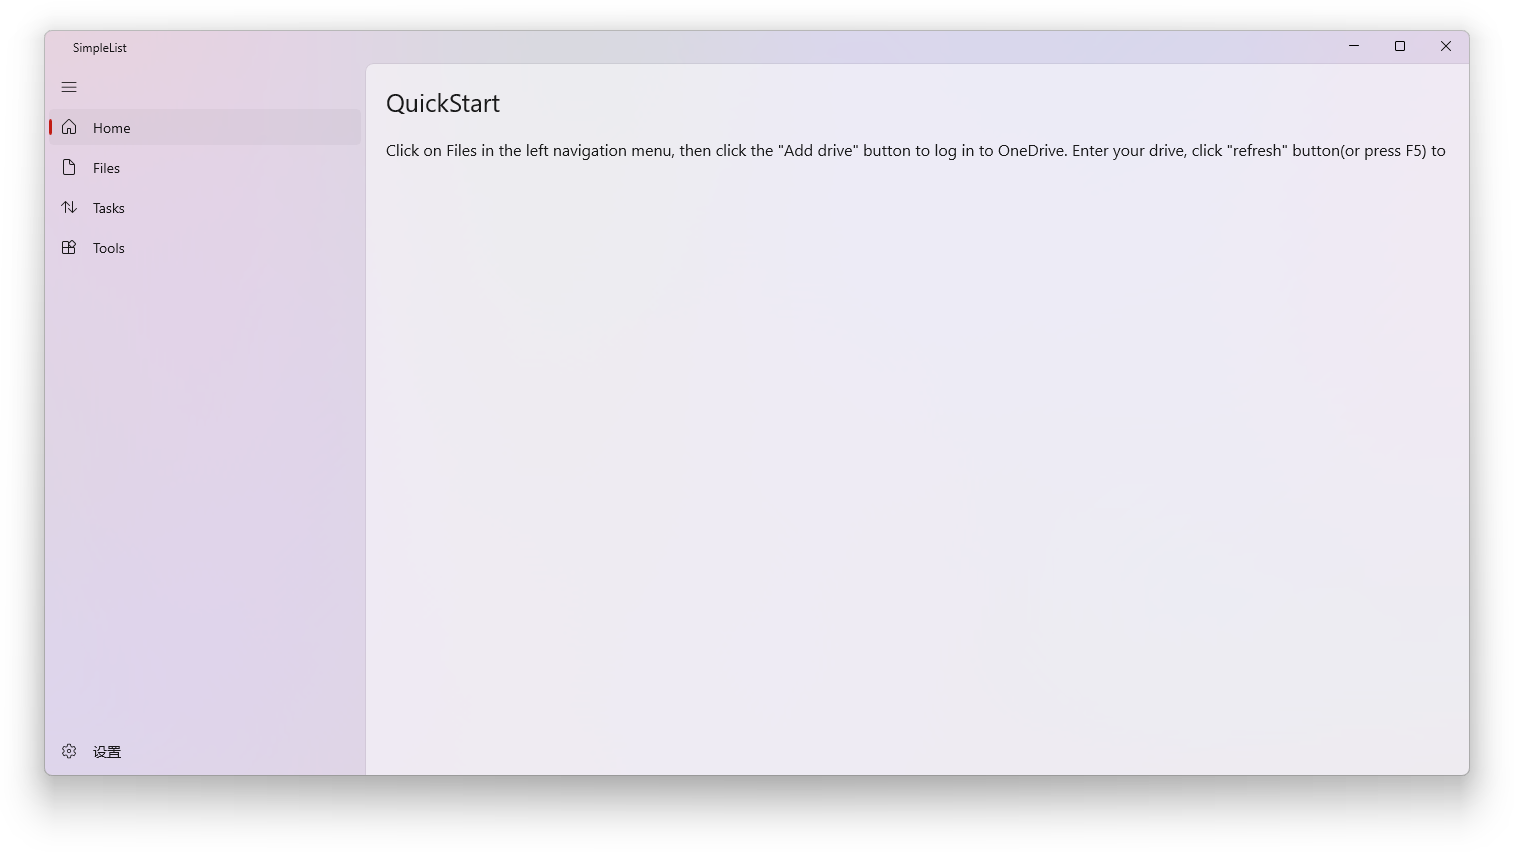
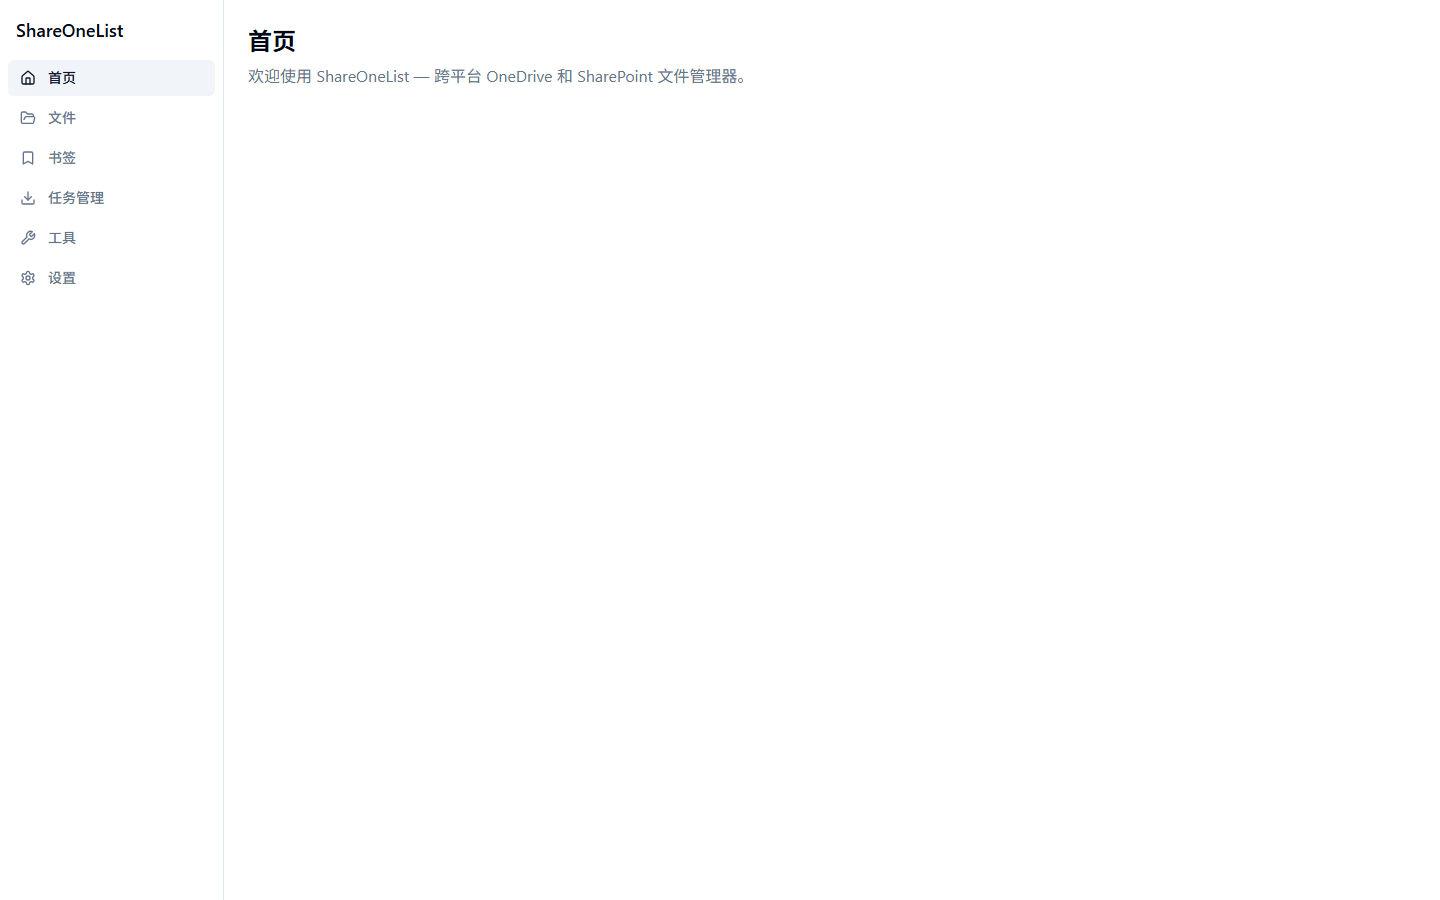
docs: refresh project intro and screenshots for Tauri 2.0

Changed region(s): [[0.0, 0.0305, 1.0, 0.9765]]

diff --git a/FEATURE_TODO.md b/FEATURE_TODO.md
@@ -1,95 +1,59 @@
 # ShareOneList 功能路线 TODO
 
-> 2026-08-14 讨论整理。仅规划，不代表已进入开发。
+> 2026-08-14 讨论整理，同日按讨论结论调整。仅规划，不代表已进入开发。
 
 ## 0. 统一决策点
 
-- [ ] 确定移动版目标平台优先级（Android / iOS / 仅 Web 响应式）
-- [ ] 确定 AI 模型提供商策略（国际模型 / 国内模型 / 可配置）
-- [ ] 确定挂载功能目标平台优先级（macOS Finder 先行 / Windows 先行）
+- [ ] 移动版列为远期目标，桌面端核心功能稳定后再启动
+- [ ] AI 聊天不做 RAG / 向量索引，采用 Graph 搜索 + 按需读取内容问答
+- [ ] Windows 和 macOS 挂载统一采用 WebDAV 中转方案，不做 WinFsp / FUSE
 - [ ] 确定“比较”功能是只读工具还是含同步执行
-- [ ] 评估四个功能之间的依赖关系（AI 索引缓存、比较缓存、挂载缓存可共用）
+- [ ] 评估功能之间的依赖关系（缓存、后台任务可共用）
 
-## 1. 移动版发布（基于 Tauri 2 重写版）
-
-### 技术前提
-
-- [ ] 明确 WinUI 3 分支不做移动迁移，移动版只基于 `tauri-app`
-- [ ] 跑通 Tauri 2 iOS / Android 脚手架（生成 `gen/android`、`gen/apple`）
-- [ ] 为移动端调整 `tauri.conf.json`（identifier、bundle、移动端配置）
-- [ ] 新增移动端 CI workflow（Android SDK/NDK、Xcode、签名）
-
-### 认证与安全
-
-- [ ] 将 OAuth localhost 回调改为 deep link / App 内 WebView 认证
-- [ ] 在 Global 和世纪互联 Azure 门户分别注册移动端重定向 URI
-- [ ] 验证并启用移动端安全存储（iOS Keychain / Android Keystore），或替换 keyring 插件
-
-### 文件与能力适配
-
-- [ ] 下载改为沙盒目录 + 系统分享 / 保存到相册
-- [ ] 上传改为文档选择器 / 分享面板
-- [ ] 裁剪或隐藏桌面专属功能（Aria2/IDM/Motrix、关机下载、GitHub 更新器）
-- [ ] 更新流程改为应用商店渠道
-
-### 前端适配
-
-- [ ] 响应式布局（侧边栏 → 底部导航）
-- [ ] 触摸目标、单指操作、小屏文件列表适配
-- [ ] 移动端端到端验证（登录、浏览、下载、预览）
-
-### 备选路线
-
-- [ ] 评估响应式 Web / PWA 作为快速验证方案
-
-## 2. 首页 AI 聊天窗口 + 云端知识库（本地 RAG）
+## 1. 首页 AI 聊天窗口 + 云端知识库（无 RAG）
 
 ### 产品边界
 
 - [ ] 明确“搜文件”与“基于内容问答”两条能力的优先级
 - [ ] 定义知识范围（当前账号 / 指定库 / 所有账号）
+- [ ] 明确不做本地向量索引、embedding、向量数据库
 
-### Phase 1：轻量问答
+### 能力设计
 
+- [ ] 首页新增聊天窗口（欢迎区 + ChatPanel 或右侧抽屉）
+- [ ] 使用 Graph 搜索定位相关文件 / 片段
 - [ ] 支持选择单个文件 / 文件夹作为问答上下文
-- [ ] 抽取文本内容（文本、Markdown 优先）
-- [ ] Graph 搜索作为兜底（定位文件、片段）
-
-### Phase 2：本地 RAG
-
-- [ ] 实现 `KnowledgeIndexer`：Graph delta 增量索引 + 索引游标持久化
-- [ ] 文档解析：Word / Excel / PPT / PDF / Markdown
-- [ ] 分块 + embedding + SQLite 向量索引
-- [ ] 实现 `ChatEngine`：检索 Top-K、组装 prompt、流式输出
+- [ ] 抽取文本内容（文本、Markdown 优先；Office / PDF 视能力逐步支持）
+- [ ] 将检索结果与上下文发送给模型，流式输出
 - [ ] 答案带引用卡片，点击跳转到文件浏览 / 预览
-- [ ] 索引进度通过 Tauri 事件推送到前端
+- [ ] 对话历史本地持久化（可选）
 
 ### 权限与合规
 
-- [ ] 索引按账号 / 云环境隔离
-- [ ] 登出或移除账号时清理对应索引
-- [ ] 显示“数据将发送给 XX 模型”的提示与开关
+- [ ] 只查询当前登录账号可见内容，跨账号隔离
+- [ ] 登出时清理会话上下文
+- [ ] 显示“数据将发送给 XX 模型”的提示
 - [ ] 支持排除指定库 / 目录
 
 ### 模型抽象
 
-- [ ] 定义 Provider 接口（Embedding 与 Chat 分开）
-- [ ] 支持 OpenAI-compatible 国际模型与国内模型切换
+- [ ] 定义 Chat Provider 接口
+- [ ] 支持国际模型与国内模型切换
 - [ ] 设置页新增 API Key 配置
 
-### 未来演进
+### 后续
 
-- [ ] 设计索引 / 检索可替换为服务端实现（兼容移动端）
+- [ ] 若未来需要更高答案质量，再评估服务端 / 本地索引（暂不建 RAG）
 
-## 3. 挂载到本地磁盘（WebDAV 中转方案）
+## 2. 挂载到本地磁盘（Windows + macOS 统一 WebDAV）
 
 ### PoC 验证
 
 - [ ] Rust 后端实现 loopback WebDAV 服务
 - [ ] 仅实现 `PROPFIND` + `GET` 只读挂载
-- [ ] 在真实 macOS Finder 挂载验证：中文名、`#`/`%`、大文件、连接稳定性
-- [ ] 验证 Windows 资源管理器挂载体验
-- [ ] 根据 PoC 结果决定是否继续 / 是否切换 WinFsp
+- [ ] macOS Finder 挂载验证：中文名、`#`/`%`、大文件、连接稳定性
+- [ ] Windows 资源管理器挂载验证：WebClient 服务、认证、文件大小限制
+- [ ] 根据 PoC 结果决定是否继续 / 是否调整实现
 
 ### 核心设计
 
@@ -102,10 +66,10 @@
 ### 后续阶段
 
 - [ ] 写操作与冲突处理
-- [ ] Windows 端评估 WinFsp 路线
 - [ ] 挂载设置页（端口、口令、只读开关、自动挂载）
+- [ ] 多客户端复用（Finder、资源管理器、rclone 等）
 
-## 4. 文件夹比较 + 同步（Beyond Compare 风格）
+## 3. 文件夹比较 + 同步（Beyond Compare 风格）
 
 ### 会话模型
 
@@ -139,9 +103,32 @@
 - [ ] 定时比较 / 增量刷新
 - [ ] 跨账号复制优先使用 Graph 服务端 copy，跨云回退流式中转
 
+## 4. 移动版发布（远期，最后启动）
+
+### 前提
+
+- [ ] 桌面端核心功能（AI 聊天、WebDAV 挂载、文件夹比较）稳定后再启动
+- [ ] 明确 WinUI 3 分支不做移动迁移，移动版只基于 `tauri-app`
+- [ ] 评估响应式 Web / PWA 作为快速验证方案
+
+### 移动端适配
+
+- [ ] 跑通 Tauri 2 iOS / Android 脚手架（生成 `gen/android`、`gen/apple`）
+- [ ] 调整 `tauri.conf.json` 移动端配置
+- [ ] 新增移动端 CI workflow（Android SDK/NDK、Xcode、签名）
+- [ ] OAuth localhost 回调改为 deep link / App 内 WebView 认证
+- [ ] 注册 Global 和世纪互联移动端重定向 URI
+- [ ] 启用移动端安全存储（iOS Keychain / Android Keystore）
+- [ ] 下载改为沙盒目录 + 系统分享 / 保存到相册
+- [ ] 上传改为文档选择器 / 分享面板
+- [ ] 裁剪或隐藏桌面专属功能（Aria2/IDM/Motrix、关机下载、GitHub 更新器）
+- [ ] 更新流程改为应用商店渠道
+- [ ] 响应式布局（侧边栏 → 底部导航）与触摸适配
+- [ ] 移动端端到端验证（登录、浏览、下载、预览）
+
 ## 5. 通用技术底座（多功能复用）
 
 - [ ] 统一的 Graph 元数据缓存与限流 / 退避策略
 - [ ] 统一的传输 stream 层（下载 / 上传 / 跨账号中转）
-- [ ] 统一的 SQLite 本地库（缓存、比较会话、AI 索引、挂载配置）
+- [ ] 统一的 SQLite 本地库（缓存、比较会话、挂载配置）
 - [ ] 统一的后台任务与进度事件模型

diff --git a/README.md b/README.md
@@ -2,47 +2,33 @@
 
 English | [简体中文](./README_zh_CN.md)
 
-> OneDrive & SharePoint, Global & China — one app for all your clouds.
+> Cross-platform OneDrive & SharePoint file manager for Microsoft 365, built with Tauri 2, Rust and React.
 
-ShareOneList is a file management client for Microsoft 365 built with WinUI 3. It provides unified access to OneDrive and SharePoint document libraries, with full support for both the Global (International) and China (21Vianet) environments.
+ShareOneList is a cross-platform file management client for Microsoft 365, supporting Windows (x64 / arm64) and macOS (Apple Silicon). It provides unified access to OneDrive and SharePoint document libraries, with full support for both the Global (International) and China (21Vianet) environments.
 
 ## Highlights
 
 - **Dual-cloud support** — Manage files on both Global and 21Vianet Microsoft 365 from a single app
 - **OneDrive + SharePoint** — Browse your personal OneDrive, SharePoint site libraries, and shared drives in one place
 - **Multi-account** — Add multiple accounts across different cloud environments
-- **Batch download** — Select files and folders with checkboxes, download them all at once
-- **Task manager** — Track download and upload progress in real time
-- **File preview** — Preview images, Markdown, and media files without leaving the app
-- **File operations** — Upload, download, rename, delete, share, and convert files
-- **Dark mode** — Follows system theme with Mica / Acrylic material support
-- **Internationalization** — English and Simplified Chinese
+- **Resumable downloads** — Pause and resume interrupted download tasks after restart
+- **Batch tasks** — Merge a batch download into one task with progress and speed
+- **File preview** — Preview images, videos, Markdown, and Office documents online
+- **Thumbnails** — File-type icons and image/video thumbnails
+- **Bookmarks** — Save frequently used folders and files for quick access
+- **Dark / light theme** — Follows the system theme or switch manually
+- **Internationalization** — Follows the system language, manually switchable between English and Simplified Chinese
 
 ## Getting Started
 
 1. Download the latest release from [Releases](https://github.com/ituff/SimpleList21V/releases)
-2. Unzip and run `ShareOneList.exe`
+2. Install or run `ShareOneList`
 3. Click **Files** in the sidebar, then **Add drive** to sign in with your Microsoft account
 4. Double-click a drive to browse files
 
 ## Configuration
 
-Edit `appsettings.json` to set your own Azure AD Client IDs:
-
-```json
-{
-  "AzureAD": {
-    "Global": {
-      "ClientId": "your-global-client-id"
-    },
-    "China": {
-      "ClientId": "your-china-client-id"
-    }
-  }
-}
-```
-
-> **Note:** Global and 21Vianet Azure AD are completely independent. Register your app at [portal.azure.com](https://portal.azure.com) (Global) and [portal.azure.cn](https://portal.azure.cn) (21Vianet) separately.
+The app ships with default Azure AD Client IDs for both Global and 21Vianet. If you want to use your own Azure AD applications, register them at [portal.azure.com](https://portal.azure.com) (Global) and [portal.azure.cn](https://portal.azure.cn) (21Vianet) separately and configure the client IDs in the app.
 
 ## Features
 
@@ -50,34 +36,42 @@ Edit `appsettings.json` to set your own Azure AD Client IDs:
 - [x] SharePoint site & document library browsing
 - [x] Global (International) and 21Vianet (China) support
 - [x] Multi-account management
-- [x] Batch download with checkbox selection
-- [x] Download / upload with progress tracking
+- [x] Batch download merged into one task
+- [x] Resumable download with progress and speed
+- [x] Download to a user-selected save path with last-path memory
 - [x] File sharing & link generation
-- [x] File preview (Image, Markdown, Media)
+- [x] File preview (Image, Video, Markdown, Office Online)
+- [x] Image / video thumbnails
+- [x] Bookmarks
 - [x] Rename / Delete / Properties
 - [x] Convert to PDF
 - [x] Storage capacity display
-- [x] Column / Grid / Image layout modes
+- [x] List / Grid / Gallery layout modes
 - [x] Drag-and-drop upload
-- [x] Dark mode & theme customization
-- [x] English / 简体中文
-- [ ] Automatic synchronization
+- [x] Dark / light theme
+- [x] System language / English / 简体中文
+- [x] In-app update check
+- [ ] Mobile release
 
 ## Screenshots
 
-> May not reflect the latest version.
-
 ![HomePage](./ScreenShots/HomePage.png)
 ![CloudPage](./ScreenShots/CloudPage.png)
+![DriveHubPage](./ScreenShots/DriveHubPage.png)
 ![DrivePage](./ScreenShots/DrivePage.png)
-![CreateFolder](./ScreenShots/CreateFolder.png)
 ![GridLayout](./ScreenShots/GridLayout.png)
-![Download](./ScreenShots/Download.png)
-![Share](./ScreenShots/Share.png)
-![ImageViewing](./ScreenShots/ImageViewing.png)
+![TaskManager](./ScreenShots/TaskManager.png)
+![BookmarksPage](./ScreenShots/BookmarksPage.png)
 ![ToolsPage](./ScreenShots/ToolsPage.png)
+![SettingsPage](./ScreenShots/SettingsPage.png)
 ![DarkMode](./ScreenShots/DarkMode.png)
 
-## Acknowledgements
+## Development
 
-ShareOneList is forked from [aiguoli/SimpleList](https://github.com/aiguoli/SimpleList). Thanks to the original author for the open-source contribution.
+```bash
+cd tauri-app
+npm install
+npm run tauri dev
+```
+
+The old WinUI 3 implementation is kept in `SimpleList/` for reference only; all new development happens in `tauri-app/`.
